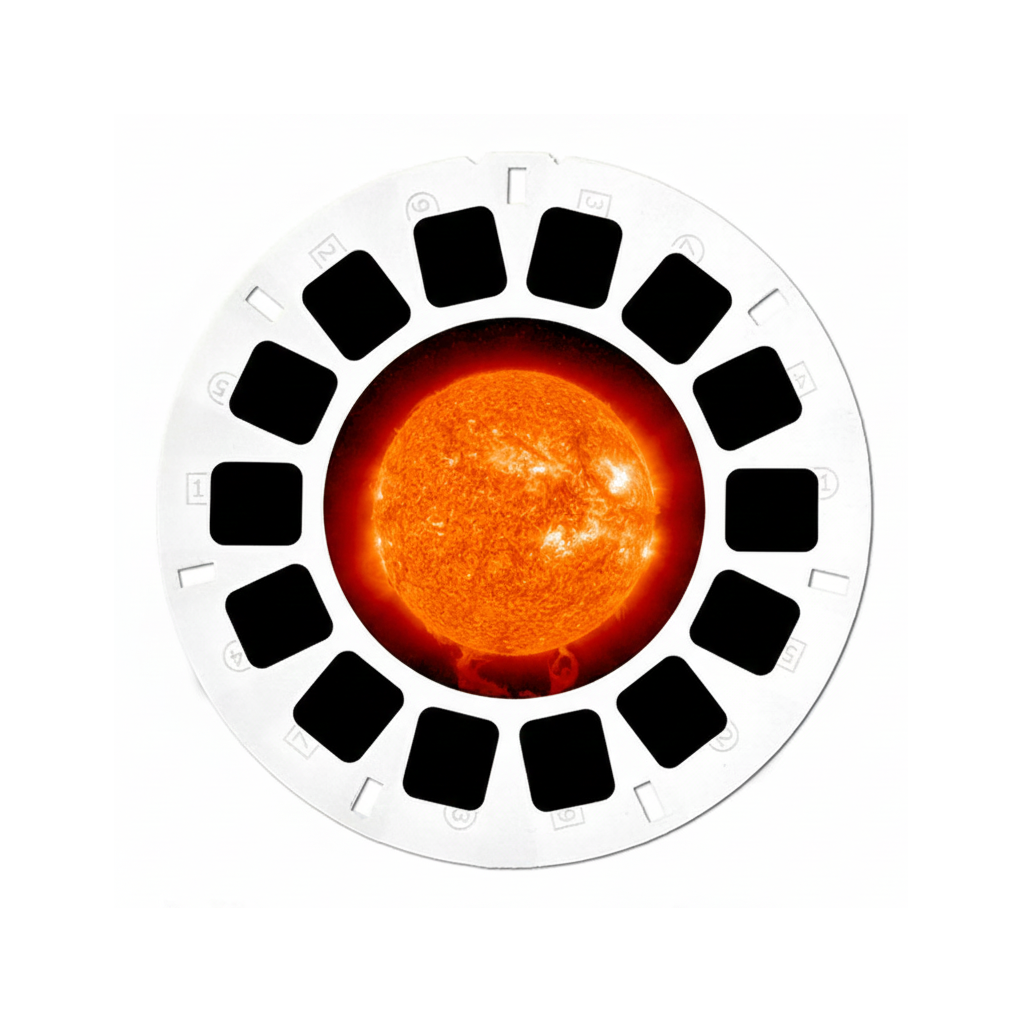
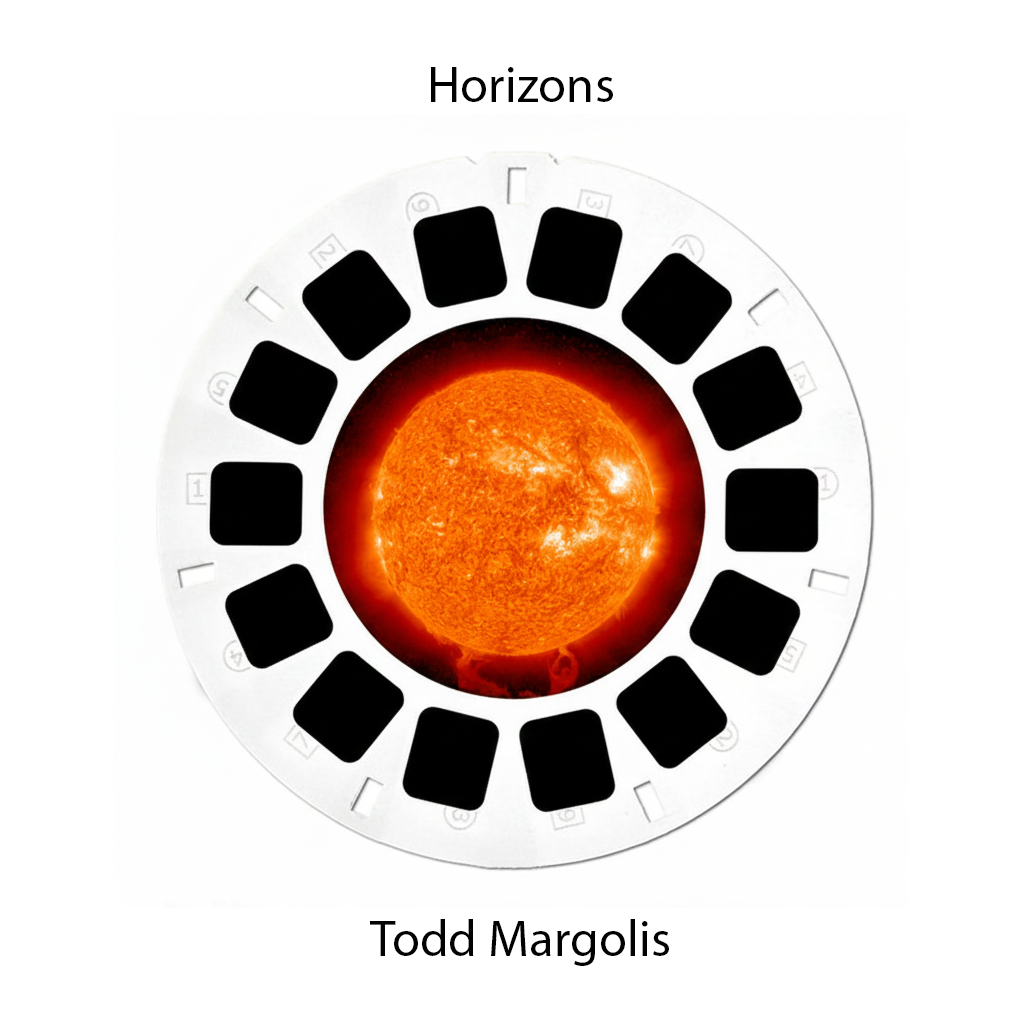
Update project hero image and image references in projects.ts, replacing outdated images with new ones for improved visual consistency. Update binary image file for View-Master reel.

Changed region(s): [[0.3438, 0.9062, 0.6562, 0.9375], [0.4062, 0.0625, 0.5938, 0.125]]

diff --git a/src/data/projects.ts b/src/data/projects.ts
@@ -151,18 +151,18 @@ export const projects: Project[] = [
     price: '$1,000.00',
     note: 'n/a',
     isSeries: true,
-    heroImage: '/images/View-MasterReelSm.png',
+    heroImage: '/images/Horizons-cover.jpg',
     quote: 'Stereoscopic depth in the void.',
     description: 'The iconic View-Master, a symbol of childhood wonder, is reimagined by artist Todd Margolis as a complex portal to the cosmos. This custom experience presents seven stereoscopic images of our solar system, crafted initially not from illustration, but from authentic scientific data. By meticulously utilizing parallax data and rotational shifts captured by spacecraft, Margolis transforms raw information from missions like New Horizons and Mars Express into true 3D views of celestial objects.',
     description2: 'Yet, these pristine scientific vistas are not left uninhabited. In a provocative artistic intervention, Margolis disrupts the purity of the data by embedding contemporary avatars of extra-planetary ambition within the scenes. With the simple, mechanical click of the viewer’s lever, one might encounter the icy mountains of Pluto, only to find them scaled by a diminutive Jeff Bezos; turn the wheel again, and Elon Musk is revealed surveying the dust-strewn craters of Mars\'s moon Phobos.\n\nThe result is an intimate, personal encounter with the sublime, complicated by the uncanny presence of human ego. The artwork collapses the immense distances of space, placing both the grandeur of cosmic phenomena—like the explosive energy of a Solar Coronal Mass Ejection—and the caricatures of modern corporate spacefarers directly into your hands. It transforms abstract data into a visceral experience, inviting a private communion with sights otherwise inaccessible to humankind, while simultaneously questioning who gets to claim dominion over them.',
     images: [
       '/images/Pluto-Previs_1.jpg',
-      '/images/plutoScene-anaglyph.png',
-      '/images/Phobos-CyberTruck.png',
-      '/images/sun-anaglyph.png',
-      '/images/Asteroids.jpeg',
-      '/images/Proxima_Previs1.jpeg',
-      '/images/Horizons-moon.jpg'
+      '/images/pluto-cross.jpg',
+      '/images/phobos-cross.jpg',
+      '/images/sun-cross.jpg',
+      '/images/asteroid-cross.jpg',
+      '/images/ProximaAvi-cross.jpg',
+      '/images/moon-cross.jpg'
     ],
     imageTitles: [
         'Pluto (Detail)',
@@ -183,7 +183,7 @@ export const projects: Project[] = [
         'Lunar view featuring Michelle Hanlon as a security guard protecting Apollo 11 behind a velvet rope.'
     ],
     description3: 'This piece is not a nostalgic novelty; it is the culmination of a career dedicated to the intersection of art, technology, and perception. For decades, Margolis has been a pioneer in immersive media, from his early co-invention of the Varrier™ auto-stereoscopic display to his creation of 3D artwork using PHSCologram technology. This View-Master project is a direct extension of that lifelong inquiry, refining large-scale concepts into a profoundly personal form.\n\nDuring his tenure at the Qualcomm Institute at UCSD, Margolis designed "discovery platforms" to translate vast scientific datasets into immersive, understandable experiences. This practice of turning complex information into compelling visual encounters is central to his work. The View-Master, then, becomes the perfect synthesis of his artistic and technological concerns: using a historical medium of mass visual consumption to frame cutting-edge scientific discovery and contemporary cultural mythology. In doing so, he forges a tangible, and critical, connection between human curiosity, commercial ambition, and the farthest reaches of our universe.',
-    watermarkedImages: ['/images/View-MasterReelSm.png', '/images/Pluto-Previs_1.jpg','/images/Asteroids.jpeg', '/images/Proxima_Previs1.jpeg', '/images/Horizons-moon.jpg']
+    watermarkedImages: ['/images/View-MasterReelSm.png', '/images/Pluto-Previs_1.jpg','/images/asteroid-anaglyph.png', '/images/ProximaAvi.png', '/images/Horizons-moon.jpg']
   },
   // 6. Metronome
   {
